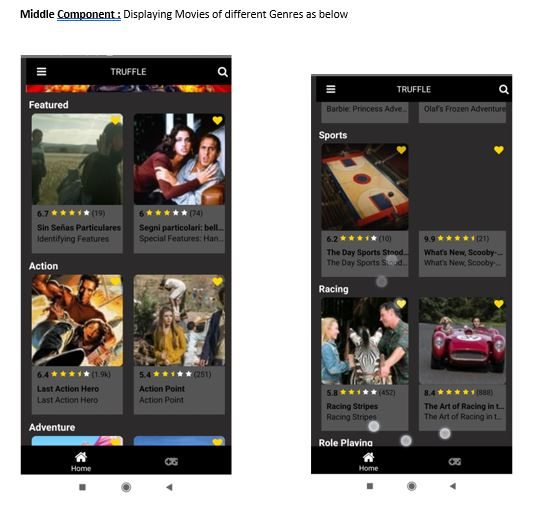
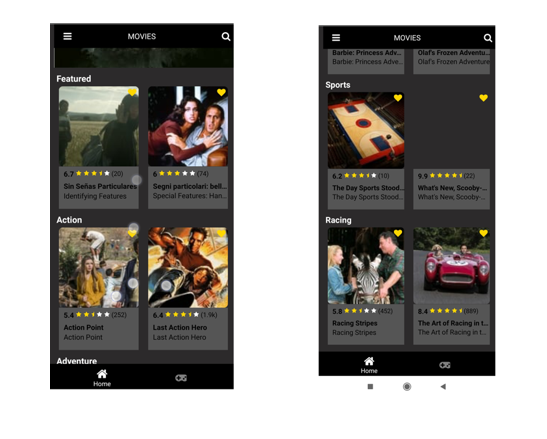
Refined API call

diff --git a/App/Containers/Search.js b/App/Containers/Search.js
@@ -304,7 +304,7 @@ componentWillMount() {
  
     return fetch(
       
-      "https://api.themoviedb.org/3/genre/movie/list?api_key=xxx&language=en-US",
+      "https://api.themoviedb.org/3/genre/movie/list?api_key=e60f97467e53623440ba3a914746753f&language=en-US",
       {
         method: "GET"
       }
@@ -354,7 +354,7 @@ searchFilterFunction = (text) => {
             method: 'GET',
           
         }
-        fetch('https://api.themoviedb.org/3/search/movie?api_key=xxx&language=en-US&query=' + text, data)
+        fetch('https://api.themoviedb.org/3/search/movie?api_key=e60f97467e53623440ba3a914746753f&language=en-US&query=' + text, data)
             .then(response => response.json())
             .then(responseJson => {
                 this.setState({
@@ -374,7 +374,7 @@ searchFilterFunction = (text) => {
                 console.error(error);
             });
         
-      
+      if(this.state.isLoading == false){
       
       for (let i=0;i<this.state.mainSearchDataSource.results.length;i++){
             const itemData = this.state.mainSearchDataSource.results[i].title.toLowerCase() ? this.state.mainSearchDataSource.results[i].title.toLowerCase() : '';
@@ -396,6 +396,9 @@ searchFilterFunction = (text) => {
             search : text,
           });
     }
+    }
+
+
     else if(!text || text === '') {
        
     
@@ -408,11 +411,7 @@ searchFilterFunction = (text) => {
                       search : text
                     });
                     }
-        
-   
-       
-    
-  };
+   };
 
 }
 

diff --git a/App/Containers/HomeMiddleComponent.js b/App/Containers/HomeMiddleComponent.js
@@ -3,7 +3,7 @@ import React, { Component } from 'react';
 import { View, ScrollView, Text,SafeAreaView,Image,TouchableOpacity, Dimensions, ActivityIndicator,ImageBackground, FlatList,StyleSheet ,LogBox } from 'react-native'
 
 import Icon from 'react-native-vector-icons/FontAwesome';
-import GameDetails from './GameDetails.js'
+import MovieDetails from './MovieDetails.js'
 
 
 
@@ -287,7 +287,7 @@ componentDidMount() {
      for(let j=0; j<this.state.titles.length;j++){
     var dataSource = [];
       titles_list[j] = this.state.titles[j];
-      fetch('https://api.themoviedb.org/3/search/movie?api_key=xxx&query=' + titles_list[j],
+      fetch('https://api.themoviedb.org/3/search/movie?api_key=e60f97467e53623440ba3a914746753f&query=' + titles_list[j],
                   {
                     method: "GET"
                   }
@@ -381,7 +381,7 @@ return (
           <View style={{flex:1}}>
            <TouchableOpacity 
               onPress= { ()=> {
-                  const {navigate} = this.props.navigation.navigate("GameDetails",{ app_id: item.title})}}>
+                  const {navigate} = this.props.navigation.navigate("MovieDetails",{ app_id: item.title})}}>
               <ImageBackground source= {{uri:'https://image.tmdb.org/t/p/w185/' + item.backdrop_path}} style={{width:170 , height:170,marginLeft:10,borderRadius: 8, overflow: 'hidden'}}>
                 <Icon name="heart" size={18} color="#ffd700"
                   style={{ marginLeft:147,marginTop:4}}/>

diff --git a/App/Navigation/NavigationDrawer.js b/App/Navigation/NavigationDrawer.js
@@ -30,23 +30,9 @@ export default class NavigationDrawer extends Component{
 
   
   render(){
-  let label = "Firmware";
 
 
-  let Firmware = (  
-       <View style={{flexDirection:"row"}}>  
-					<Text style={{color:'black',fontSize:16,marginHorizontal:12,marginTop:10}}>{label}</Text>
-          <Icon name="circle" size={14} color="red" style={{marginTop:18}}/>
-				</View>
-        );
-
-    let Normal = (  
-       <View style={{flexDirection:"row"}}>  
-					<Text style={{color:'black',fontSize:16,marginHorizontal:12,marginTop:10}}>{label}</Text>
-          <Icon name="" size={14} color="red" style={{margin:10}}/>
-				</View>
-        );
-
+  
     return (
       <SafeAreaView style={{ flex: 1 }}>
     
@@ -99,17 +85,7 @@ export default class NavigationDrawer extends Component{
                        </TouchableOpacity>
                   </View>
                 <View style={{borderWidth: 0.5,borderColor:'black',marginTop:15}}/>  
-                 <TouchableOpacity  onPress={() => {
-                        //this.change()
-                        this.props.navigation.navigate("Firmware");}}>
-               <View style={{flexDirection:'row',marginVertical:5}}>
-                   {  
-                      (label == "Firmware") ? Firmware : Normal  
-                      
-                   }
-                
-                  </View>
-                 </TouchableOpacity>
+              
         </View>
       </SafeAreaView>
     );

diff --git a/App/Navigation/AppNavigation.js b/App/Navigation/AppNavigation.js
@@ -12,11 +12,10 @@ import NavigationDrawer from "./NavigationDrawer";
 import Home from "../Containers/Home";
 import Favorites from "../Containers/Favorites";
 import WebContent from "../Containers/WebContent";
-import Firmware from "../Containers/Firmware";
 import Search from "../Containers/Search";
 import Search_category from "../Containers/Search_category";
 import HomeMiddleComponent from "../Containers/HomeMiddleComponent";
-import GameDetails from "../Containers/GameDetails";
+import MovieDetails from "../Containers/MovieDetails";
 import Header from "../Containers/Header";
 
 
@@ -68,7 +67,6 @@ const AppDrawerNavigator = createDrawerNavigator({
     Home:{screen:AppTabBottomNavigator},
     Favorites:{screen:Favorites},
     WebContent: { screen: WebContent },
-    Firmware : {screen:Firmware},
     NavigationDrawer: { screen: NavigationDrawer },
   },
   {
@@ -83,7 +81,7 @@ const PrimaryNav = createStackNavigator(
 		LoginScreen: { screen: LoginScreen },
 		LaunchScreen: { screen: LaunchScreen },
 		Home: { screen: AppDrawerNavigator},
-    GameDetails:{screen:GameDetails},
+    MovieDetails:{screen:MovieDetails},
     Search:{screen:Search},
     Search_category:{screen:Search_category}
 

diff --git a/App/Containers/Header.js b/App/Containers/Header.js
@@ -57,7 +57,7 @@ export default class Header extends Component {
                     color="#fff"/>
                 </TouchableOpacity>
                 <View style ={{width:100,marginLeft:120}}>
-                <Text style = {{color:'#fff'}}>TRUFFLE</Text>
+                <Text style = {{color:'#fff'}}>MOVIES</Text>
                 </View>
                 <TouchableOpacity  onPress={() => {
                 //this.change()
@@ -86,7 +86,7 @@ export default class Header extends Component {
                     color="#fff"/>
                 </TouchableOpacity>
                 <View style ={{width:100,marginLeft:260}}>
-                <Text style = {{color:'#fff'}}>TRUFFLE</Text>
+                <Text style = {{color:'#fff'}}>MOVIES</Text>
                 </View>
                 <TouchableOpacity  onPress={() => {
                 //this.change()

diff --git a/App/Containers/Home.js b/App/Containers/Home.js
@@ -142,7 +142,7 @@ UNSAFE_componentWillMount(){
 componentDidMount() {
   
     return fetch(
-      "https://api.themoviedb.org/3/discover/movie?api_key=xxx",
+      "https://api.themoviedb.org/3/discover/movie?api_key=e60f97467e53623440ba3a914746753f",
       {
         method: "GET"
       }
@@ -169,7 +169,7 @@ componentDidMount() {
             if (item.id) {
               //console.log("renderCarouselItem - sourceUri: " + JSON.stringify(sourceUri));
               carouselLink = () => {
-                    this.props.navigation.navigate("GameDetails", { app_id: item.title});
+                    this.props.navigation.navigate("MovieDetails", { app_id: item.title});
                 };
            
             }

diff --git a/App/Themes/Images.js b/App/Themes/Images.js
@@ -3,10 +3,6 @@ const images = {
 	logo: require("../Images/ignitenb.png"),
 	logoDark: require("../Images/ignitenbdark.png"),
 	clearLogo: require("../Images/top_logo.png"),
-	gvBlogIcon: require("../Images/gamevicelive-blog-icon.png"),
-	gvLogo: require("../Images/gamevicelive-logo.png"),
-	gvIcon: require("../Images/gamevicelive-icon.png"),
-	gvIconWhite: require("../Images/gamevicelive-icon-white.png"),
 	appleLogo: require("../Images/apple_logo_white.png"),
 	launch: require("../Images/launch-icon.png"),
 	ready: require("../Images/your-app.png"),

diff --git a/App/Containers/Search_category.js b/App/Containers/Search_category.js
@@ -85,7 +85,7 @@ renderElement=(contain) => {
         method: 'GET',
        
     }
-    fetch('https://api.themoviedb.org/3/search/movie?api_key=xxx&language=en-US&query=' + this.props.navigation.state.params.genre, data)
+    fetch('https://api.themoviedb.org/3/search/movie?api_key=e60f97467e53623440ba3a914746753f&language=en-US&query=' + this.props.navigation.state.params.genre, data)
         .then(response => response.json())
         .then(responseJson => {
             this.setState({

diff --git a/App/Containers/MovieDetails.js b/App/Containers/MovieDetails.js
@@ -90,7 +90,7 @@ renderElement=(contain) => {
         method: 'GET',
        
     }
-    fetch('https://api.themoviedb.org/3/search/movie?api_key=xxx&query=' + this.props.navigation.state.params.app_id, data)
+    fetch('https://api.themoviedb.org/3/search/movie?api_key=e60f97467e53623440ba3a914746753f&query=' + this.props.navigation.state.params.app_id, data)
         .then(response => response.json())
         .then(responseJson => {
             this.setState({

diff --git a/App/Containers/WebContent.js b/App/Containers/WebContent.js
@@ -32,7 +32,7 @@ export default class WebContent extends Component {
         return (
         <WebView
             source={{
-                uri: 'https://gamevice.com/pages/faq-app'
+                uri: 'https://docs.google.com/document/d/1KJkDmGjLHr8aT6ed64ZA7X84sXQS5Svt-4MC8aEAbfw/edit'
                 }}
                 style={{ marginTop: 20 }}
             />

diff --git a/App/Utils/ListLayoutUtil.js b/App/Utils/ListLayoutUtil.js
@@ -3,7 +3,7 @@ import { Dimensions } from 'react-native';
 
 import Platform from '../Config/Platform'
 
-import styles from '../Containers/Styles/GameCardStyles'
+import styles from '../Containers/Styles/MovieCardStyles'
 
 
 export default class LayoutUtil {
